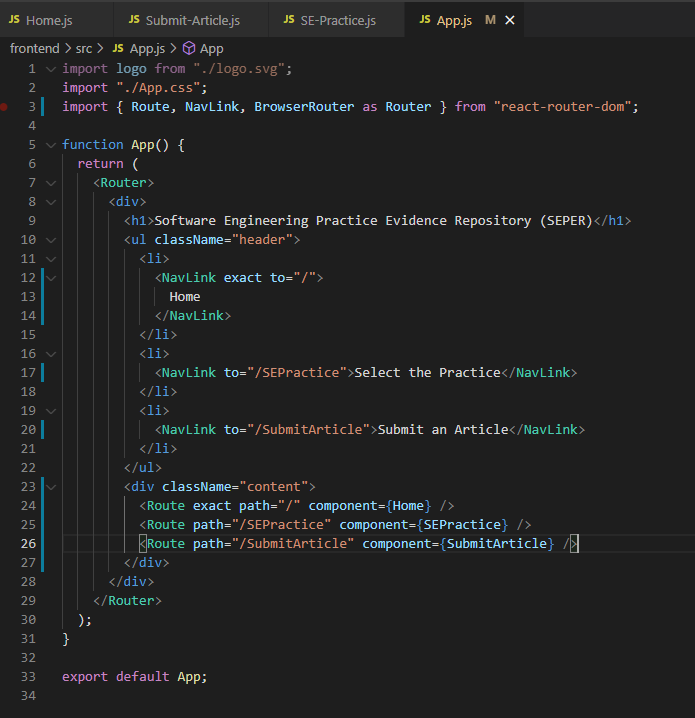
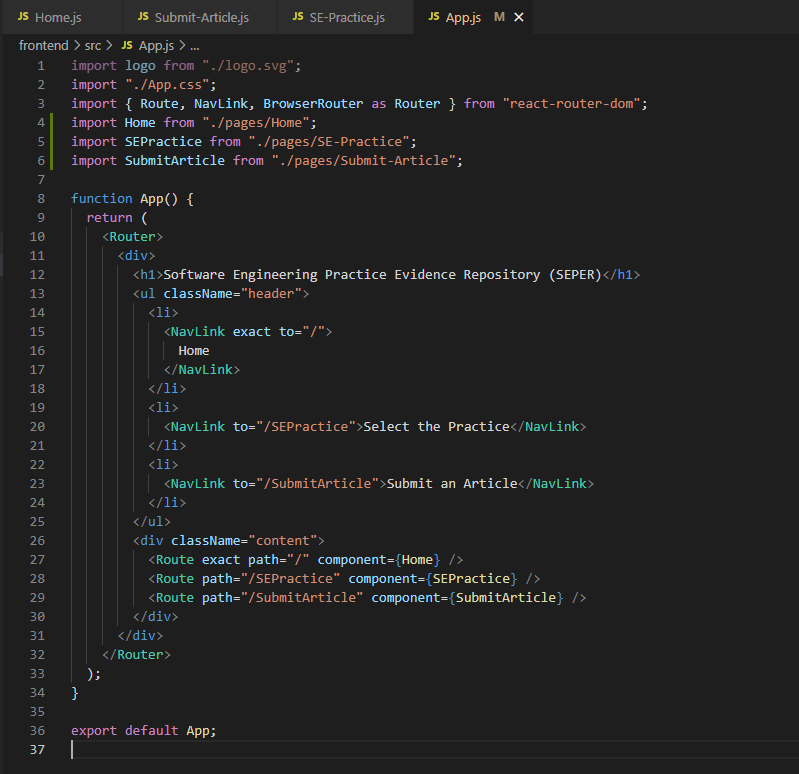
Downgraded to v5 react router dom

diff --git a/frontend/src/App.js b/frontend/src/App.js
@@ -1,6 +1,9 @@
 import logo from "./logo.svg";
 import "./App.css";
 import { Route, NavLink, BrowserRouter as Router } from "react-router-dom";
+import Home from "./pages/Home";
+import SEPractice from "./pages/SE-Practice";
+import SubmitArticle from "./pages/Submit-Article";
 
 function App() {
   return (
